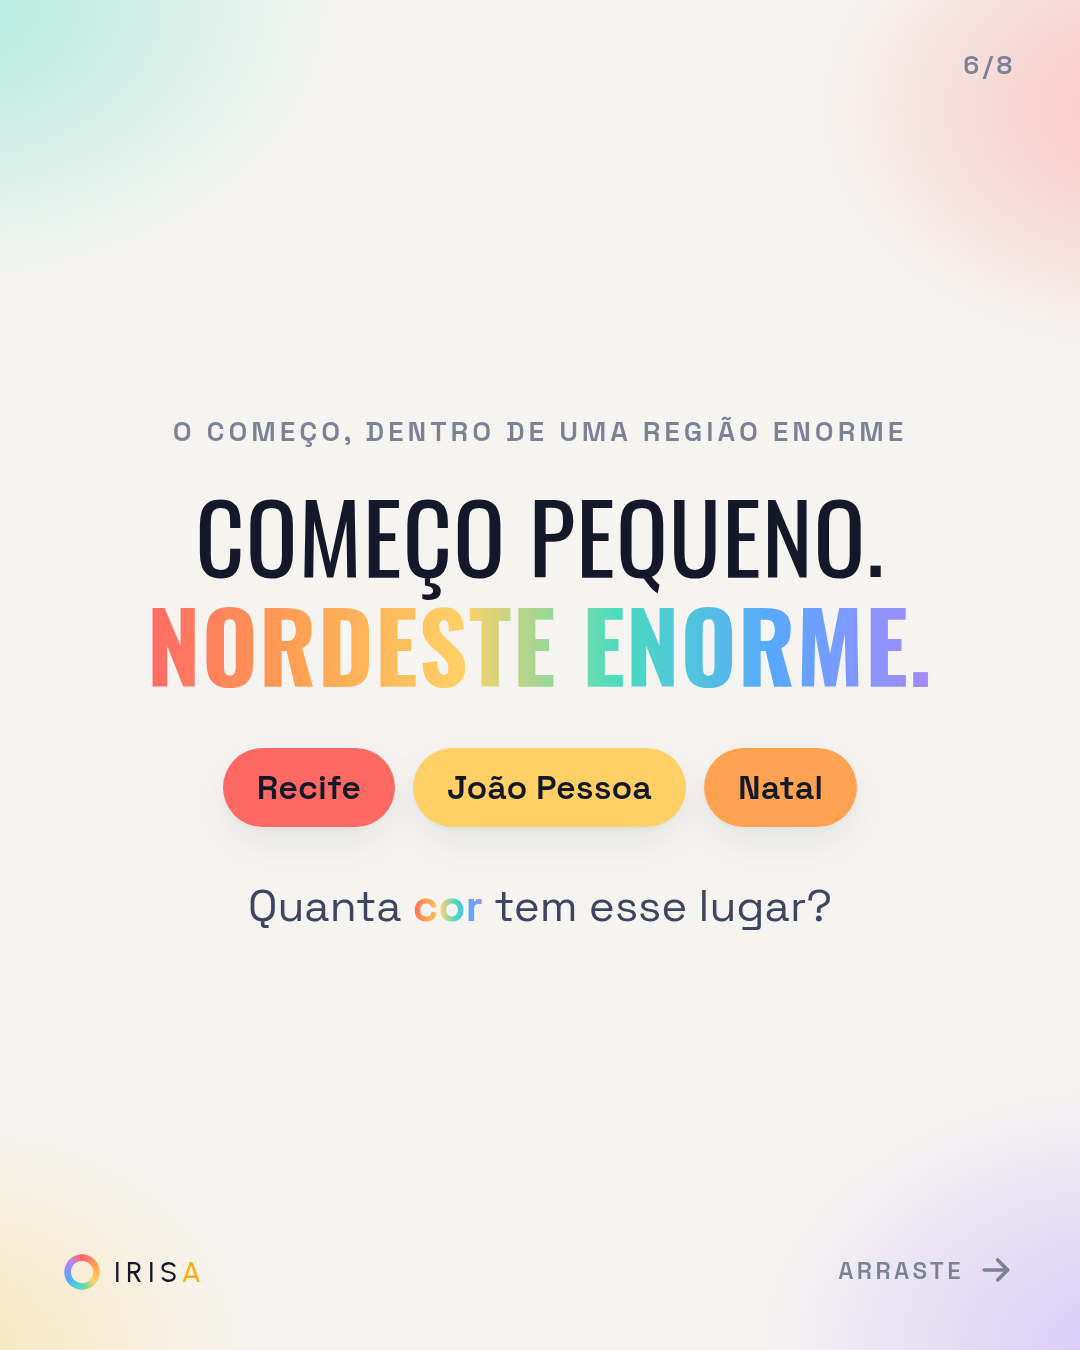
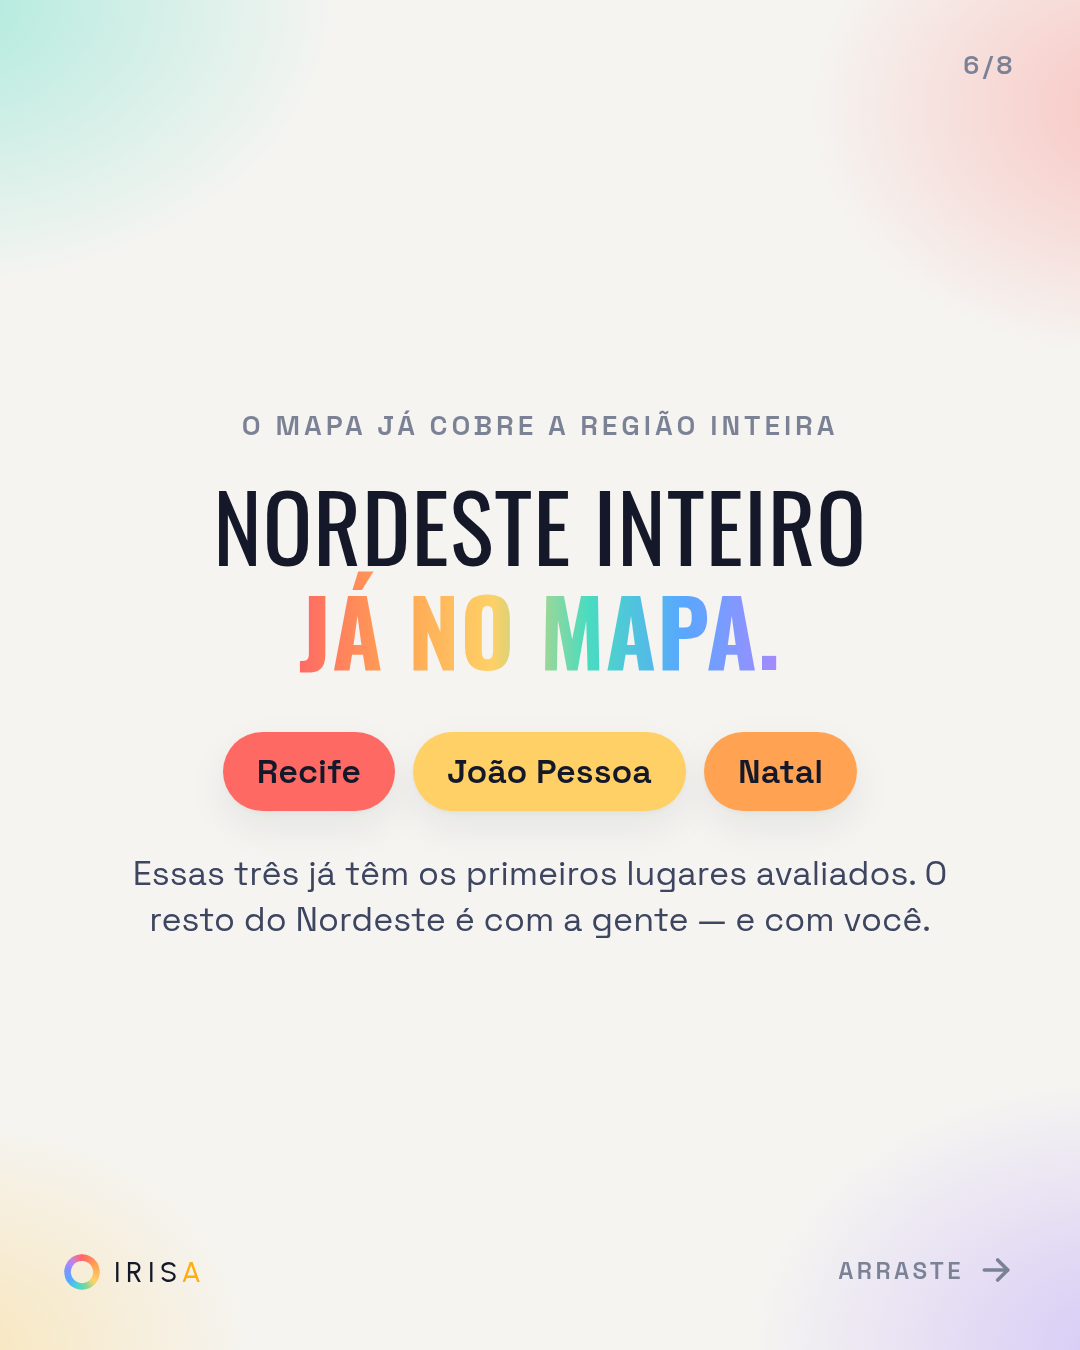
Ajusta lâmina 6 e legenda: Nordeste inteiro já está no mapa
Corrige a mensagem de "começando por 3 cidades" para "a região
inteira já está no mapa" (os 5.570 municípios do Brasil, Nordeste
incluído, já têm cidade no app — Recife, João Pessoa e Natal só já
têm os primeiros lugares avaliados). Legenda ganhou emoji.

Claude-Session: https://claude.ai/code/session_015WqfV53Y8EeDbiaJmrZRa2

Changed region(s): [[0.1222, 0.3111, 0.8556, 0.7156], [0.8556, 0.6222, 0.8861, 0.6533]]

diff --git a/docs/carrossel-nordestino-1.html b/docs/carrossel-nordestino-1.html
@@ -103,10 +103,10 @@ body{font-family:var(--body);color:var(--ink);display:flex;flex-direction:column
 <section class="sl"><div class="bg"></div><div class="num">5/8</div><div class="brand"><svg class="mark" viewBox="0 0 100 100"><use href="#radarmin"></use></svg><span>Iris<b>a</b></span></div><div class="swipe">arraste <svg viewBox="0 0 24 24" fill="none" stroke="currentColor" stroke-width="2.2" stroke-linecap="round" stroke-linejoin="round"><path d="M5 12h14"/><path d="m13 6 6 6-6 6"/></svg></div><p class="big c" style="font-size:112px"><span class="strike" style="color:var(--coralInk)">"Só funciona</span></p>
 <p class="big c" style="font-size:112px;margin-top:6px"><span class="strike" style="color:var(--coralInk)">no Sul/Sudeste"</span></p>
 <p class="body c" style="max-width:840px;margin-top:50px">Recife já entrou no mesmo lote que Curitiba. E a régua vale do Maranhão à Bahia, do litoral ao sertão.</p></section>
-<section class="sl"><div class="bg"></div><div class="num">6/8</div><div class="brand"><svg class="mark" viewBox="0 0 100 100"><use href="#radarmin"></use></svg><span>Iris<b>a</b></span></div><div class="swipe">arraste <svg viewBox="0 0 24 24" fill="none" stroke="currentColor" stroke-width="2.2" stroke-linecap="round" stroke-linejoin="round"><path d="M5 12h14"/><path d="m13 6 6 6-6 6"/></svg></div><div class="eyebrow c">o começo, dentro de uma região enorme</div>
-<p class="big c" style="font-size:96px;margin:30px 0 50px"><span class="lt">Começo pequeno.</span><br><span class="rainbow">Nordeste enorme.</span></p>
+<section class="sl"><div class="bg"></div><div class="num">6/8</div><div class="brand"><svg class="mark" viewBox="0 0 100 100"><use href="#radarmin"></use></svg><span>Iris<b>a</b></span></div><div class="swipe">arraste <svg viewBox="0 0 24 24" fill="none" stroke="currentColor" stroke-width="2.2" stroke-linecap="round" stroke-linejoin="round"><path d="M5 12h14"/><path d="m13 6 6 6-6 6"/></svg></div><div class="eyebrow c">o mapa já cobre a região inteira</div>
+<p class="big c" style="font-size:92px;margin:30px 0 50px"><span class="lt">Nordeste inteiro</span><br><span class="rainbow">já no mapa.</span></p>
 <div class="pills"><span class="ct" style="background:var(--coral)">Recife</span><span class="ct" style="background:var(--yellow)">João Pessoa</span><span class="ct" style="background:var(--orange)">Natal</span></div>
-<p class="body c" style="max-width:820px;margin-top:50px;font-size:44px">Quanta <b class="rainbow" style="font-weight:700">cor</b> tem esse lugar?</p></section>
+<p class="body c" style="max-width:820px;margin-top:40px;font-size:34px">Essas três já têm os primeiros lugares avaliados. O resto do Nordeste é com a gente — e com você.</p></section>
 <section class="sl night"><div class="bg"></div><div class="num">7/8</div><div class="brand"><svg class="mark" viewBox="0 0 100 100"><use href="#radarmin"></use></svg><span>Iris<b>a</b></span></div><div class="swipe">arraste <svg viewBox="0 0 24 24" fill="none" stroke="currentColor" stroke-width="2.2" stroke-linecap="round" stroke-linejoin="round"><path d="M5 12h14"/><path d="m13 6 6 6-6 6"/></svg></div><div class="eyebrow c" style="color:var(--turqInk)">a homenagem é de hoje</div>
 <p class="big c" style="font-size:92px;margin:26px 0 40px"><span class="lt">O chapéu já é</span><br><span class="rainbow">medalha nossa.</span></p>
 <p class="body c" style="max-width:800px">Na capa, no peito, em cada comentário de quem se reconhece nele.</p></section>
